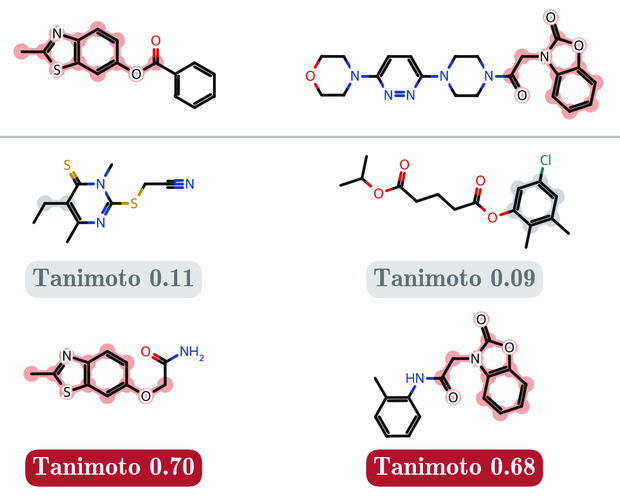
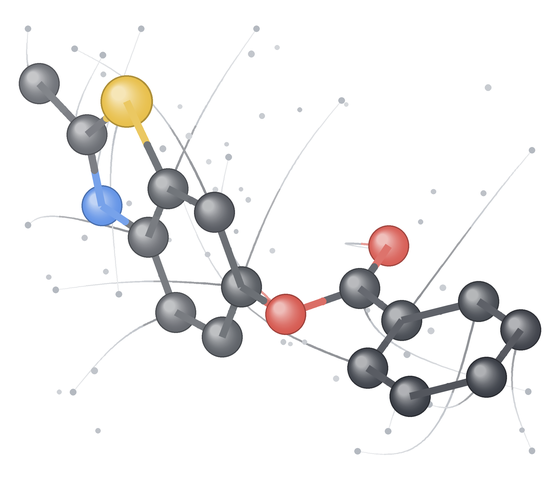
index: multiMFM thumbnail, a molecule forming from noise
Rendered from RDKit 3D coordinates of the first target molecule in the
project page's GEOM-Drugs figure: atoms flow from grey noise along curved
paths into a ball-and-stick molecule and take their element colours partway
along, the continuous and discrete halves of multiMFM.

diff --git a/index.html b/index.html
@@ -95,7 +95,7 @@
 
           <div class="list-item research" data-category="research">
             <a href="https://shiyiwang958.github.io/multimodal-meta-flow-maps/" class="thumbnail">
-              <img src="images/multimfm.png" alt="Molecules steered toward a target fingerprint with multiMFM" />
+              <img src="images/multimfm.png" alt="A molecule forming from noise: atoms flow into place and take on their element types" />
             </a>
             <div class="project-description">
               <h3><a href="https://shiyiwang958.github.io/multimodal-meta-flow-maps/">Scalable Inference-time Steering in Biological Design with Multimodal Meta Flow Maps</a></h3>
